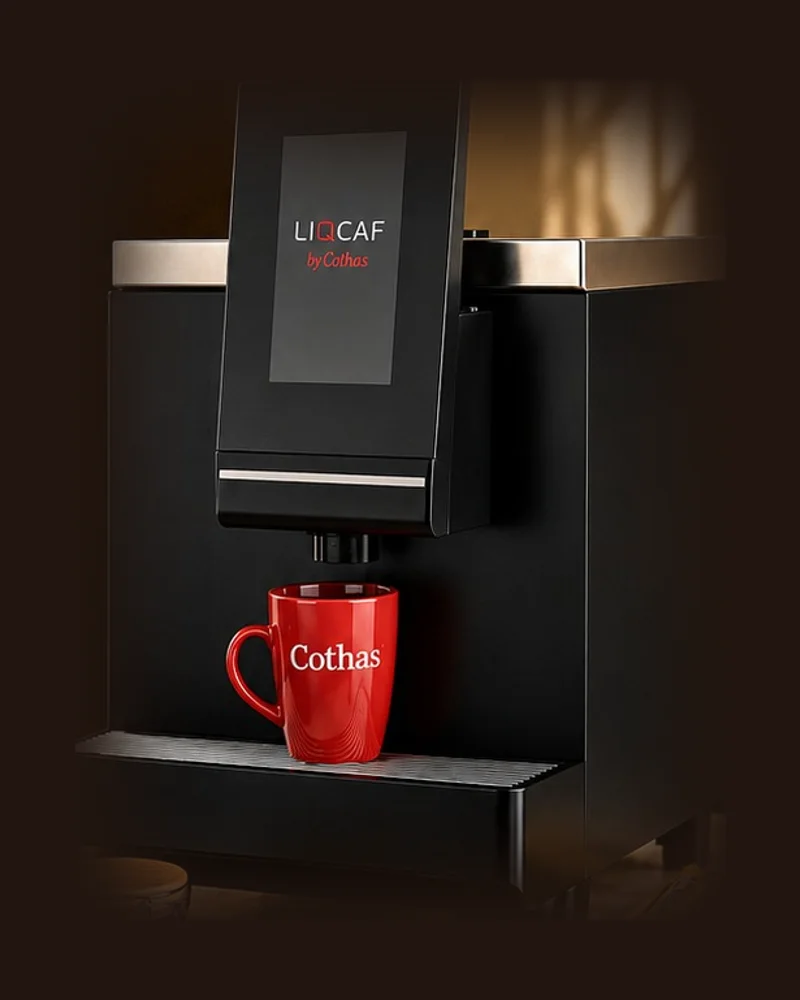
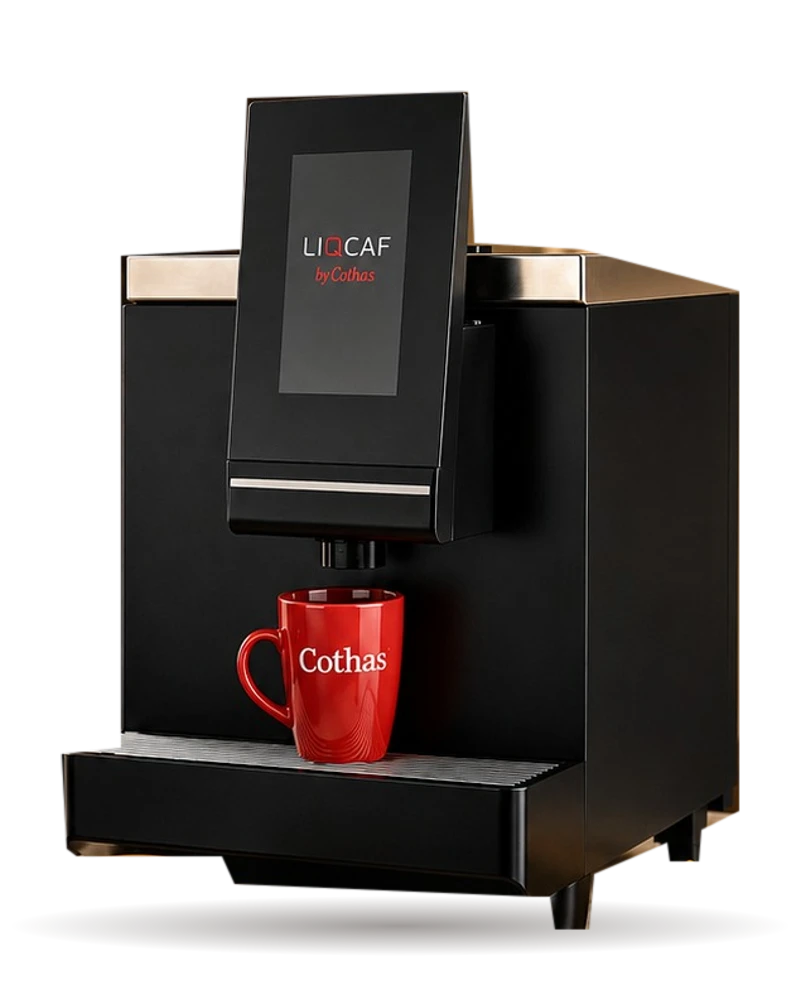
Re-cut all machine images and switch to a light stage
- Re-cut every machine from the original client posters as a transparent
  4:5 WebP showing the whole outline, with a soft floor shadow.
- Replace the dark stage behind machine photos with a light cream spotlight
  (new `stage` utility) so dark machine bodies stand out; badges on it now
  use a dark pill.

diff --git a/src/components/machines/ProductShowcase.tsx b/src/components/machines/ProductShowcase.tsx
@@ -15,7 +15,7 @@ export function ProductShowcase({ machine }: { machine: Machine }) {
   return (
     <div className="lg:sticky lg:top-28 lg:self-start">
       {/* Width is derived from the viewport height so the whole 4:5 image fits on screen without scrolling. */}
-      <div className={`relative mx-auto aspect-[4/5] w-full max-w-[calc(56dvh*0.8)] overflow-hidden rounded-[2rem] border lg:max-w-[calc((100dvh_-_14rem)*0.8)] ${hasPhotos ? "border-brass/30 bg-stage" : "border-line bg-gradient-to-b from-cream via-sand to-cream"}`}>
+      <div className={`relative mx-auto aspect-[4/5] w-full max-w-[calc(56dvh*0.8)] overflow-hidden rounded-[2rem] border lg:max-w-[calc((100dvh_-_14rem)*0.8)] ${hasPhotos ? "border-brass/30 stage" : "border-line bg-gradient-to-b from-cream via-sand to-cream"}`}>
         {hasPhotos ? (
           <div className="absolute inset-x-10 top-1/4 h-1/2 rounded-full bg-brass/15 blur-3xl" />
         ) : (
@@ -33,7 +33,7 @@ export function ProductShowcase({ machine }: { machine: Machine }) {
           className="h-full w-full animate-[fadeIn_.6s_ease]"
         />
         {machine.badge && (
-          <span className="absolute left-1/2 top-7 -translate-x-1/2 rounded-full border border-brass/40 bg-stage/80 px-4 py-1.5 text-[0.65rem] font-semibold uppercase tracking-[0.22em] text-brass-light backdrop-blur">
+          <span className="absolute left-1/2 top-7 -translate-x-1/2 rounded-full border border-brass/40 bg-espresso/80 px-4 py-1.5 text-[0.65rem] font-semibold uppercase tracking-[0.22em] text-brass-light backdrop-blur">
             {machine.badge}
           </span>
         )}
@@ -47,7 +47,7 @@ export function ProductShowcase({ machine }: { machine: Machine }) {
               type="button"
               onClick={() => setPhoto(i)}
               aria-label={`View photo ${i + 1}`}
-              className={`relative h-24 w-20 shrink-0 overflow-hidden rounded-2xl border bg-stage ${i === photo ? "border-brass" : "border-line"}`}
+              className={`relative h-24 w-20 shrink-0 overflow-hidden rounded-2xl border stage ${i === photo ? "border-brass" : "border-line"}`}
             >
               <Image src={src} alt="" fill sizes="80px" className="object-contain" />
             </button>

diff --git a/src/components/home/CategoryGrid.tsx b/src/components/home/CategoryGrid.tsx
@@ -32,15 +32,15 @@ export function CategoryGrid() {
               href={`/machines?category=${c.slug}`}
               className="group relative flex h-full flex-col overflow-hidden rounded-[2rem] border border-line bg-ivory transition-all duration-500 ease-luxe hover:-translate-y-1 hover:border-brass/60 hover:shadow-[0_30px_60px_-30px_rgba(43,27,18,0.45)]"
             >
-              <div className="relative flex h-60 items-end justify-center gap-2 overflow-hidden bg-stage px-6 pt-6 sm:h-64">
-                <div className="kolam-dark absolute inset-0 opacity-40" />
+              <div className="relative flex h-60 items-end justify-center gap-2 overflow-hidden stage px-6 pt-6 sm:h-64">
+                <div className="kolam absolute inset-0 opacity-20" />
                 <div className="absolute inset-x-16 top-1/4 h-1/2 rounded-full bg-brass/20 blur-3xl" />
                 {covers[c.slug].map((id, j, all) => (
                   <div key={id} className={`relative h-full flex-1 transition-transform duration-700 ease-luxe ${j === Math.floor(all.length / 2) ? "z-10 scale-110 group-hover:scale-[1.15]" : "opacity-80 group-hover:scale-105"}`}>
                     <Image src={`/images/machines/${id}.webp`} alt="" fill sizes="(min-width: 768px) 16vw, 30vw" className="object-contain" />
                   </div>
                 ))}
-                <span className="absolute right-5 top-5 rounded-full border border-white/15 bg-stage/70 px-3 py-1 text-[0.65rem] font-semibold uppercase tracking-widest text-ivory/70 backdrop-blur">
+                <span className="absolute right-5 top-5 rounded-full border border-white/15 bg-espresso/70 px-3 py-1 text-[0.65rem] font-semibold uppercase tracking-widest text-ivory/70 backdrop-blur">
                   {(() => {
                     const count = machines.filter((m) => m.category === c.slug).length;
                     return `${count} ${count === 1 ? "model" : "models"}`;

diff --git a/src/components/machines/MachineCard.tsx b/src/components/machines/MachineCard.tsx
@@ -12,7 +12,7 @@ export function MachineCard({ machine, priority = false }: { machine: Machine; p
       href={`/machines/${machine.slug}`}
       className="group relative flex h-full flex-col overflow-hidden rounded-[1.75rem] border border-line/70 bg-ivory transition-all duration-500 ease-luxe hover:-translate-y-1 hover:border-brass/60 hover:shadow-[0_30px_60px_-30px_rgba(43,27,18,0.45)]"
     >
-      <div className="relative aspect-[4/5] overflow-hidden bg-stage">
+      <div className="relative aspect-[4/5] overflow-hidden stage">
         {/* Soft brass spotlight behind the machine */}
         <div className="absolute inset-x-8 top-1/4 h-1/2 rounded-full bg-brass/15 blur-3xl transition-opacity duration-700 group-hover:opacity-80" />
         <MachineMedia
@@ -21,9 +21,8 @@ export function MachineCard({ machine, priority = false }: { machine: Machine; p
           sizes="(min-width: 1280px) 25vw, (min-width: 640px) 50vw, 100vw"
           className="h-full w-full transition-transform duration-700 ease-luxe group-hover:scale-[1.04]"
         />
-        <div className="absolute inset-x-0 bottom-0 h-16 bg-gradient-to-t from-stage to-transparent" />
         {machine.badge && (
-          <span className="absolute left-4 top-4 whitespace-nowrap rounded-full border border-brass/40 bg-stage/80 px-3 py-1 text-[0.6rem] font-semibold uppercase tracking-[0.2em] text-brass-light backdrop-blur">
+          <span className="absolute left-4 top-4 whitespace-nowrap rounded-full border border-brass/40 bg-espresso/80 px-3 py-1 text-[0.6rem] font-semibold uppercase tracking-[0.2em] text-brass-light backdrop-blur">
             {machine.badge}
           </span>
         )}

diff --git a/src/app/globals.css b/src/app/globals.css
@@ -18,8 +18,8 @@
   --color-brass-deep: #84652c;
   --color-kumkum: #8e2b1d;
   --color-leaf: #3f5a3c;
-  /* Backdrop baked into every machine cut-out (public/images/machines) */
-  --color-stage: #221610;
+  /* Base of the light backdrop behind machine cut-outs (see the `stage` utility) */
+  --color-stage: #f1e6d4;
 
   --font-display: var(--font-cormorant), "Cormorant Garamond", Georgia, serif;
   --font-sans: var(--font-manrope), system-ui, sans-serif;
@@ -66,6 +66,13 @@
 @utility kolam-dark {
   background-image: radial-gradient(circle, color-mix(in srgb, var(--color-brass-light) 22%, transparent) 1.2px, transparent 1.6px);
   background-size: 22px 22px;
+}
+
+/* Light spotlight backdrop for machine cut-outs (transparent WebPs in
+   public/images/machines), so dark machine bodies stand out. */
+@utility stage {
+  background-color: var(--color-stage);
+  background-image: radial-gradient(ellipse 85% 70% at 50% 38%, #fffaf2 0%, #f3e9d9 55%, #dfcba9 100%);
 }
 
 /* Temple-arch frame used for product imagery */

diff --git a/src/components/machines/MachineBrands.tsx b/src/components/machines/MachineBrands.tsx
@@ -40,8 +40,8 @@ export function MachineBrands({ brands }: { brands: MachineBrand[] }) {
                 </p>
               )}
 
-              {/* One dark stage holding up to three machines side by side — same height for every brand. */}
-              <div className="relative mt-5 flex h-56 items-end justify-center gap-1 overflow-hidden rounded-2xl bg-stage px-2 sm:h-60">
+              {/* One light stage holding up to three machines side by side — same height for every brand. */}
+              <div className="relative mt-5 flex h-56 items-end justify-center gap-1 overflow-hidden rounded-2xl stage px-2 sm:h-60">
                 <div className="absolute inset-x-6 top-1/4 h-1/2 rounded-full bg-brass/15 blur-3xl" />
                 {thumbs.map((m) => (
                   <div key={m.slug} className={`relative h-full ${thumbs.length === 1 ? "w-3/5" : "flex-1"}`}>

diff --git a/src/components/home/Hero.tsx b/src/components/home/Hero.tsx
@@ -62,7 +62,7 @@ export function Hero({ spotlight }: { spotlight: Machine }) {
           </div>
 
           <div className="relative mx-auto w-full max-w-sm sm:max-w-md lg:flex lg:h-full lg:max-w-none lg:items-center lg:justify-center">
-            <div className="arch relative aspect-[4/4.6] w-full overflow-hidden border border-brass/40 bg-stage p-2 lg:h-[calc(100%_-_1.5rem)] lg:w-auto">
+            <div className="arch relative aspect-[4/4.6] w-full overflow-hidden border border-brass/40 stage p-2 lg:h-[calc(100%_-_1.5rem)] lg:w-auto">
               <div className="arch absolute inset-3 border border-brass/25" />
               <div className="absolute inset-x-10 top-1/4 h-1/2 rounded-full bg-brass/15 blur-3xl" />
               <MachineMedia machine={spotlight} priority steam sizes="(min-width: 1024px) 34vw, 90vw" className="h-full w-full" />

diff --git a/src/app/machines/[slug]/page.tsx b/src/app/machines/[slug]/page.tsx
@@ -212,7 +212,7 @@ export default async function MachinePage({ params }: Params) {
               rel="noopener"
               className="group mt-10 flex items-center gap-5 rounded-3xl border border-line bg-cream p-4 transition-colors hover:border-brass"
             >
-              <span className="relative h-28 w-20 shrink-0 overflow-hidden rounded-xl border border-line bg-stage">
+              <span className="relative h-28 w-20 shrink-0 overflow-hidden rounded-xl border border-line stage">
                 <Image src={machine.poster} alt="" fill sizes="80px" className="object-cover object-top" />
               </span>
               <span className="min-w-0 flex-1">

diff --git a/src/components/machines/MachineMedia.tsx b/src/components/machines/MachineMedia.tsx
@@ -16,8 +16,8 @@ interface Props {
 
 /**
  * Renders the machine photo if one is supplied, otherwise the illustrated
- * placeholder. Photos are 4:5 cut-outs on the shared `bg-stage` colour, so
- * place this inside a `bg-stage` frame for a seamless edge.
+ * placeholder. Photos are 4:5 transparent cut-outs with a baked-in floor
+ * shadow, so place this inside a `stage` frame (the light backdrop).
  */
 export function MachineMedia({ machine, index = 0, finishColor, sizes = "(min-width: 1024px) 33vw, 100vw", priority, steam, className = "" }: Props) {
   const src = machine.images[index];

diff --git a/src/data/machines.ts b/src/data/machines.ts
@@ -31,7 +31,7 @@ export const categories: Category[] = [
   },
 ];
 
-/** Machine cut out of its poster, on the shared dark stage (see public/images/machines). */
+/** Machine cut out of its poster as a transparent WebP with a floor shadow (shown on the `stage` backdrop). */
 const cut = (id: number) => `/images/machines/${id}.webp`;
 const poster = (id: number) => `/images/posters/${id}.webp`;
 

diff --git a/public/images/machines/README.md b/public/images/machines/README.md
@@ -1,7 +1,11 @@
-Machine images, one per model, named after the client poster they were cut from (`175.webp` … `200.webp`).
+Machine images, one per model, named after the client poster they were cut from (`175.webp` … `200.webp`),
+plus `astoria-tanya-r.webp` (product photo supplied in chat).
 
-Each is the machine alone — poster headings, logos and badges removed — feathered onto the shared
-dark stage colour `#221610` on an 800 × 1000 (4:5) canvas, so every card lines up.
+Each is the whole machine alone — poster background, headings, props and badges removed — as a
+transparent 800 × 1000 (4:5) WebP with a soft floor shadow baked in. Tall machines stand on the same
+floor line; short/wide ones are centred. The site draws the light `stage` backdrop behind them
+(see `src/app/globals.css`), so dark machine bodies keep a visible outline.
 The full posters live in `../posters/` and are shown as the brochure on each machine page.
 
-To add a new machine, keep the same format: 4:5, machine centred, `#221610` background.
+Originals are the client's WhatsApp files (see project notes). To add a new machine, keep the same
+format: 4:5, transparent, whole outline inside the frame with margin.
